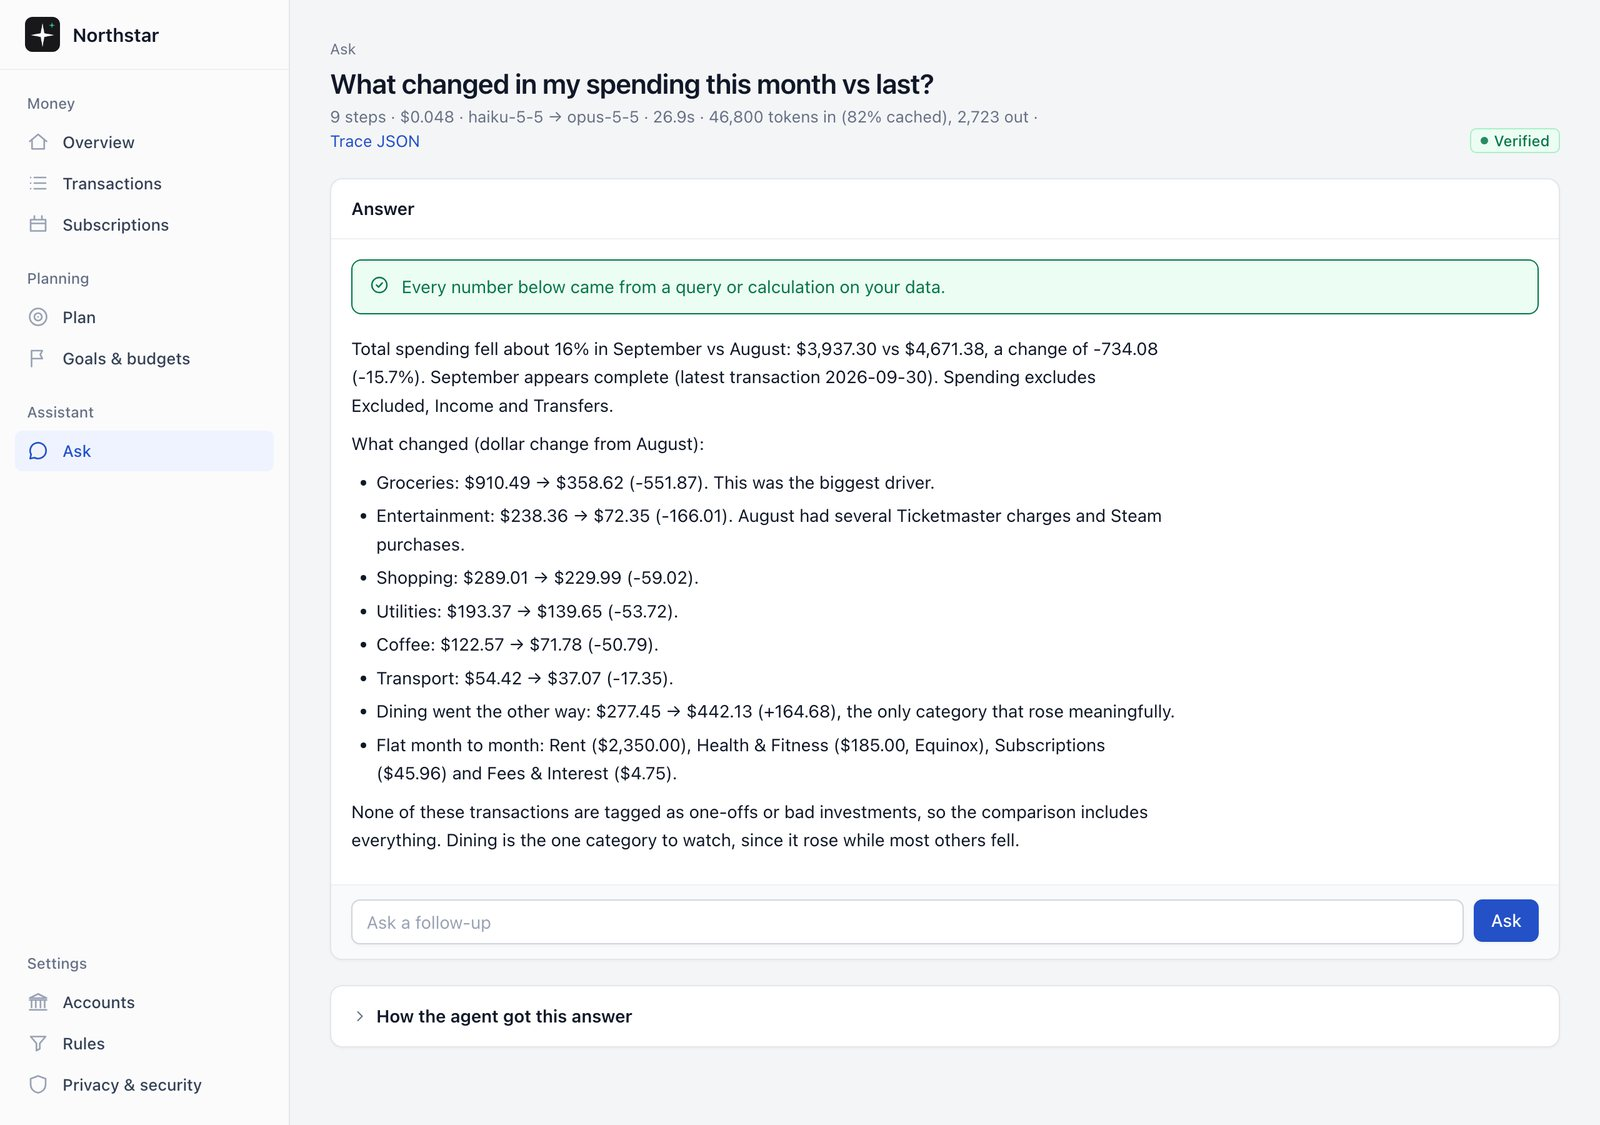
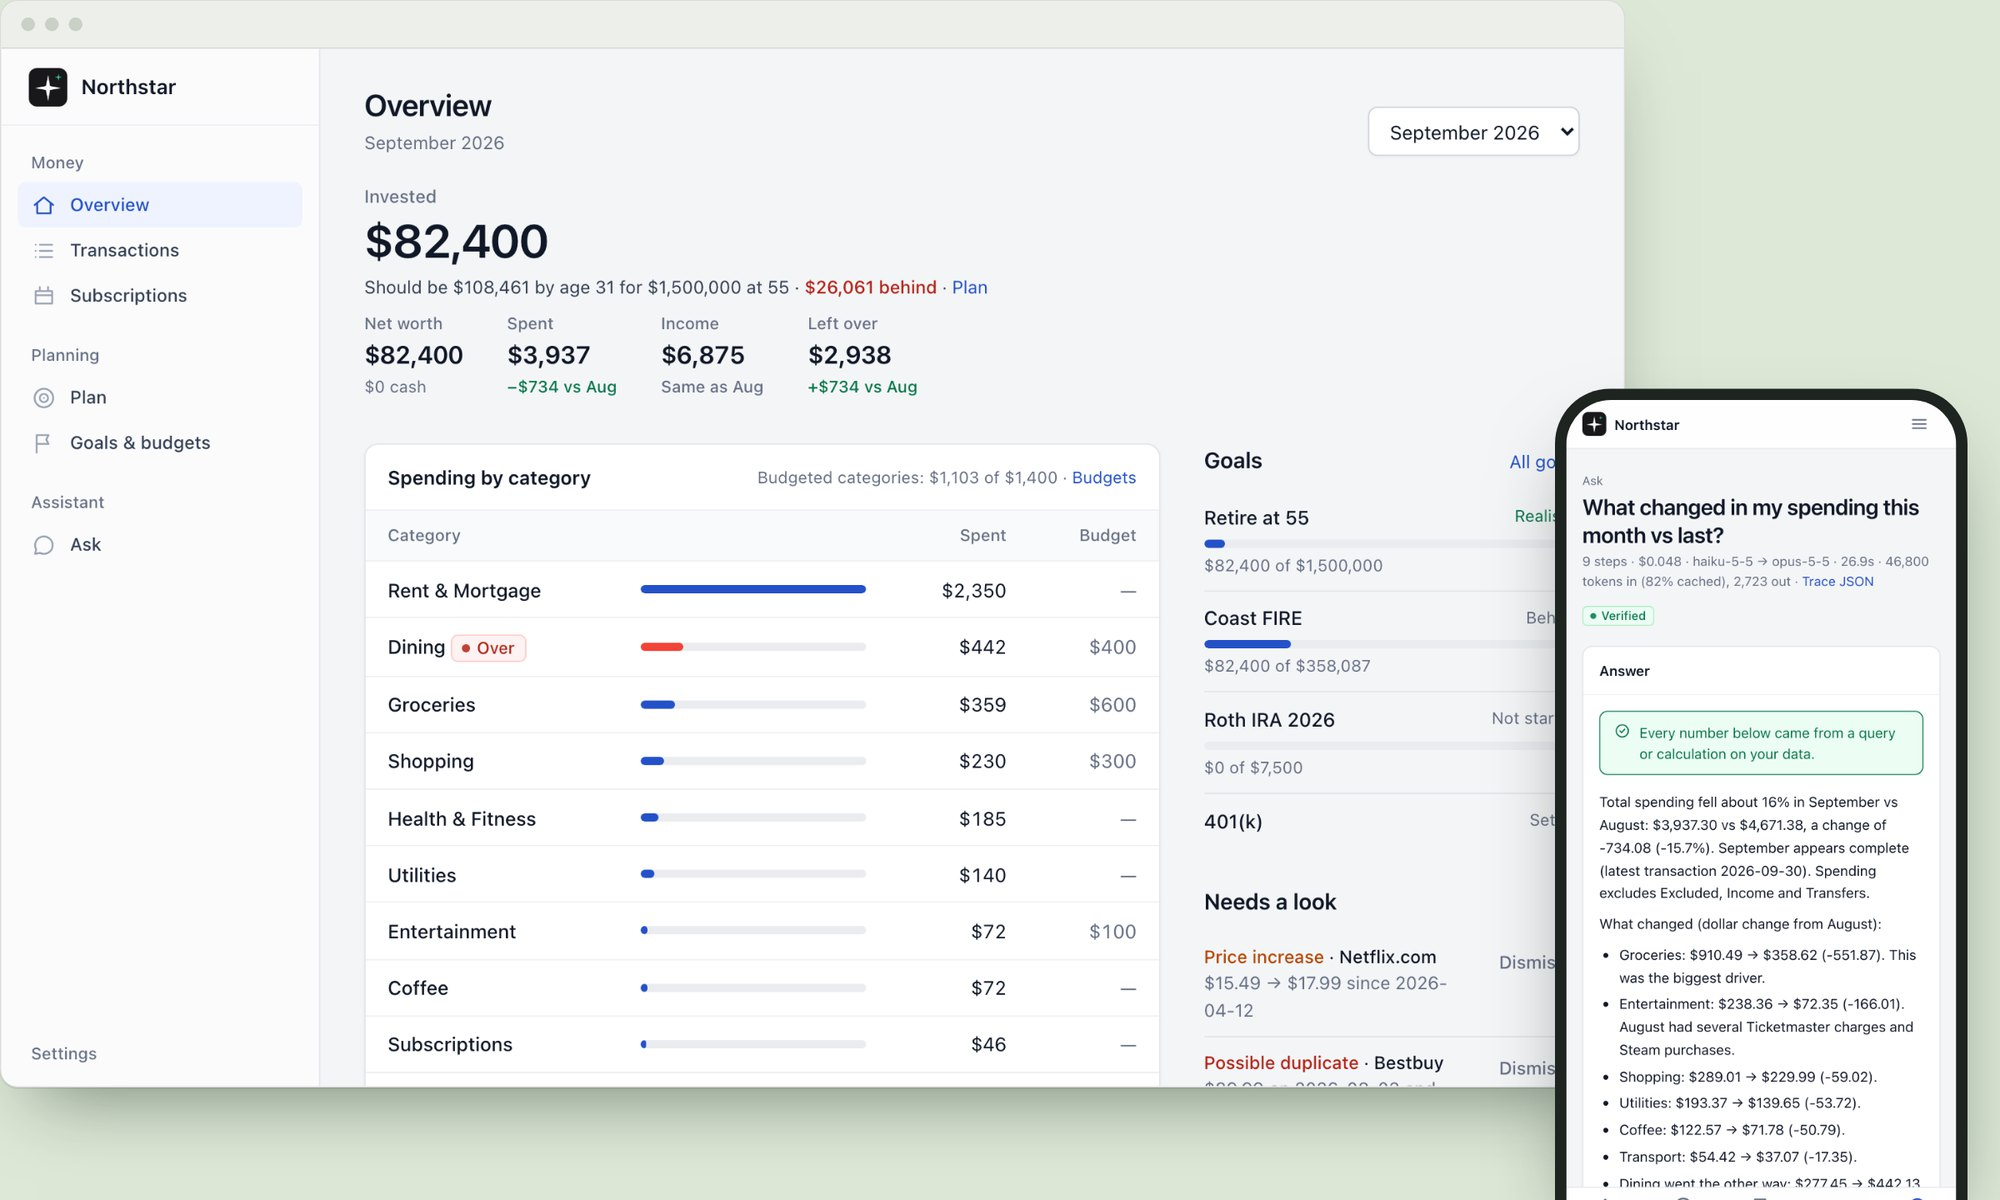
Profile photo in the hero; new product images from demo data; remove one certification; matching link preview

diff --git a/index.html b/index.html
@@ -9,6 +9,7 @@
 <meta name="author" content="Matt Thomas">
 <meta name="theme-color" content="#F8F9F5">
 <meta name="theme-color" content="#F8F9F5">
+<meta name="theme-color" content="#F8F9F5">
 <meta property="og:type" content="website">
 <meta property="og:site_name" content="Matt Thomas">
 <meta property="og:title" content="Matt Thomas · AI agents and automated workflows">
@@ -59,7 +60,10 @@ p{margin:0}
 @media (max-width:560px){.nav ul{gap:16px}.nav ul li.opt{display:none}}
 
 /* hero */
-.hero{padding-block:88px 64px;display:grid;grid-template-columns:minmax(0,1.7fr) minmax(0,1fr);gap:64px;align-items:end}
+.hero{padding-block:88px 64px;display:grid;grid-template-columns:minmax(0,1.7fr) minmax(0,1fr);grid-template-areas:"text photo" "text facts";grid-template-rows:1fr auto;gap:28px 64px;align-items:end}
+.hero-text{grid-area:text}
+.portrait{grid-area:photo;width:152px;height:152px;border-radius:50%;object-fit:cover;display:block;border:1px solid var(--rule)}
+.facts{grid-area:facts}
 .hero h1{font-size:clamp(48px,8vw,88px);letter-spacing:-.03em;line-height:.98}
 .hero .role{font:italic 400 clamp(20px,2.6vw,25px)/1.3 var(--serif);color:var(--accent);margin-top:18px}
 .hero .pitch{margin-top:22px;font-size:18px;color:var(--ink-2);max-width:56ch}
@@ -75,7 +79,7 @@ p{margin:0}
 .facts div{display:flex;justify-content:space-between;gap:16px;padding-block:11px;border-bottom:1px solid var(--rule);font-size:15px}
 .facts dt{font:italic 400 15.5px/1.5 var(--serif);color:var(--muted);white-space:nowrap}
 .facts dd{margin:0;text-align:right}
-@media (max-width:820px){.hero{grid-template-columns:1fr;gap:40px;padding-block:56px 40px}}
+@media (max-width:820px){.hero{grid-template-columns:1fr;grid-template-areas:"photo" "text" "facts";grid-template-rows:auto;gap:28px;padding-block:48px 40px}.portrait{width:104px;height:104px}}
 
 /* sections */
 section{padding-block:72px 0;scroll-margin-top:16px}
@@ -92,8 +96,10 @@ section{padding-block:72px 0;scroll-margin-top:16px}
 .f-shot picture{display:block}
 .f-shot img{display:block;width:100%;height:auto;aspect-ratio:16/7;object-fit:cover;object-position:top left}
 .f-shot.wide img{aspect-ratio:auto}
+.f-shot.free a{background:none;border:0;box-shadow:none;border-radius:0}
+.f-shot.free img{aspect-ratio:auto}
 .f-shot figcaption{font:italic 400 14.5px/1.4 var(--serif);color:var(--panel-muted);padding-top:12px}
-@media (max-width:720px){.f-shot img{aspect-ratio:4/5;object-position:top center}.f-shot.wide img{aspect-ratio:1224/711}}
+@media (max-width:720px){.f-shot img{aspect-ratio:4/5;object-position:top center}.f-shot.wide img{aspect-ratio:1224/711}.f-shot.free a{background:#fff;border:1px solid var(--panel-rule);border-radius:8px;box-shadow:0 16px 36px -18px rgba(20,36,26,.5)}.f-shot.free img{aspect-ratio:4/5}}
 .f-main{display:grid;gap:16px;align-content:start}
 .kicker{display:flex;gap:4px 10px;flex-wrap:wrap;align-items:baseline;font:italic 400 16.5px/1.3 var(--serif);color:var(--panel-muted)}
 .kicker::before{content:counter(proj,decimal-leading-zero);font-weight:500;color:var(--ink);padding-right:10px;margin-right:2px;border-right:1px solid var(--panel-rule)}
@@ -177,7 +183,7 @@ footer{margin-top:40px;color:var(--muted);font-size:14px;display:flex;justify-co
 <div class="wrap" id="top">
 
 <header class="hero">
-  <div>
+  <div class="hero-text">
     <h1>Matt Thomas</h1>
     <p class="role">Technology Consultant · AI &amp; Operational Data</p>
     <p class="pitch">Matt is a technology consultant at Protiviti, focused on enterprise integrations and security.</p>
@@ -194,12 +200,13 @@ footer{margin-top:40px;color:var(--muted);font-size:14px;display:flex;justify-co
       <a class="btn" href="#contact">Get in touch</a>
     </div>
   </div>
+  <img class="portrait" src="assets/matt-thomas.jpg" width="400" height="400" alt="Matt Thomas">
   <div class="facts">
     <dl>
       <div><dt>Currently</dt><dd>Technology Consultant, Protiviti</dd></div>
       <div><dt>Based in</dt><dd>Philadelphia, PA</dd></div>
       <div><dt>Education</dt><dd>BBA, MIS, Temple (Fox) · 3.97</dd></div>
-      <div><dt>Certified</dt><dd>AWS Cloud Practitioner · Workday Pro</dd></div>
+      <div><dt>Certified</dt><dd>AWS Cloud Practitioner</dd></div>
       <div><dt>Building</dt><dd class="live">AI agents · evals · data pipelines</dd></div>
     </dl>
   </div>
@@ -212,7 +219,7 @@ footer{margin-top:40px;color:var(--muted);font-size:14px;display:flex;justify-co
   </div>
 
   <article class="feature">
-    <figure class="f-shot"><a href="assets/northstar.jpg" target="_blank" rel="noopener"><picture><source media="(max-width: 720px)" srcset="assets/northstar-phone.jpg"><img src="assets/northstar.jpg" width="1600" height="1125" loading="lazy" alt="Northstar answering a spending question, marked Verified, with every figure traced to the data"></picture></a><figcaption>Northstar on its synthetic demo ledger. Select the image to see it in full.</figcaption></figure>
+    <figure class="f-shot free"><a href="assets/northstar.jpg" target="_blank" rel="noopener"><picture><source media="(max-width: 720px)" srcset="assets/northstar-phone.jpg"><img src="assets/northstar.jpg" width="2000" height="1200" loading="lazy" alt="Northstar: a spending and goals dashboard on a laptop, and on a phone a question answered and marked Verified"></picture></a><figcaption>Northstar on a synthetic demo ledger: the dashboard, and a question answered with every number checked.</figcaption></figure>
     <div class="f-main">
       <div class="kicker"><span class="tag">AI agents · personal finance</span><span class="when">Oct 2026</span></div>
       <h3>Northstar <span style="font-weight:400;opacity:.65">(Personal Finance Agent)</span></h3>
@@ -241,7 +248,7 @@ footer{margin-top:40px;color:var(--muted);font-size:14px;display:flex;justify-co
   </article>
 
   <article class="feature">
-    <figure class="f-shot"><a href="assets/sidequest.jpg" target="_blank" rel="noopener"><picture><source media="(max-width: 720px)" srcset="assets/sidequest-phone.jpg"><img src="assets/sidequest.jpg" width="1600" height="1017" loading="lazy" alt="Sidequest's To do list: researched items, each with a verdict and a next step"></picture></a><figcaption>Sidequest's To do list: each item sent to it comes back with a verdict and a next step. Select the image to see it in full.</figcaption></figure>
+    <figure class="f-shot free"><a href="assets/sidequest.jpg" target="_blank" rel="noopener"><picture><source media="(max-width: 720px)" srcset="assets/sidequest-phone.jpg"><img src="assets/sidequest.jpg" width="2000" height="1200" loading="lazy" alt="Sidequest: a To do list with one report open, showing a verdict and how a tool fits each project, on a laptop and a phone"></picture></a><figcaption>Sidequest with sample data: the To do list with one report open, showing how a tool fits each project.</figcaption></figure>
     <div class="f-main">
       <div class="kicker"><span class="tag">AI agents · research</span><span class="when">Sep – Oct 2026</span></div>
       <h3>Sidequest <span style="font-weight:400;opacity:.65">(Saved Video Intelligence)</span></h3>
@@ -360,7 +367,7 @@ footer{margin-top:40px;color:var(--muted);font-size:14px;display:flex;justify-co
   </div>
   <div class="edu">
     <div><span class="label">Education</span><b>Temple University, Fox School of Business</b><span>BBA, Management Information Systems · Major GPA 3.97</span></div>
-    <div><span class="label">Certifications</span><b>AWS Certified Cloud Practitioner</b><span>Workday Pro Integrations · KPMG Data Analytics Consulting Virtual Certificate</span></div>
+    <div><span class="label">Certifications</span><b>AWS Certified Cloud Practitioner</b><span>KPMG Data Analytics Consulting Virtual Certificate</span></div>
   </div>
 </section>
 
